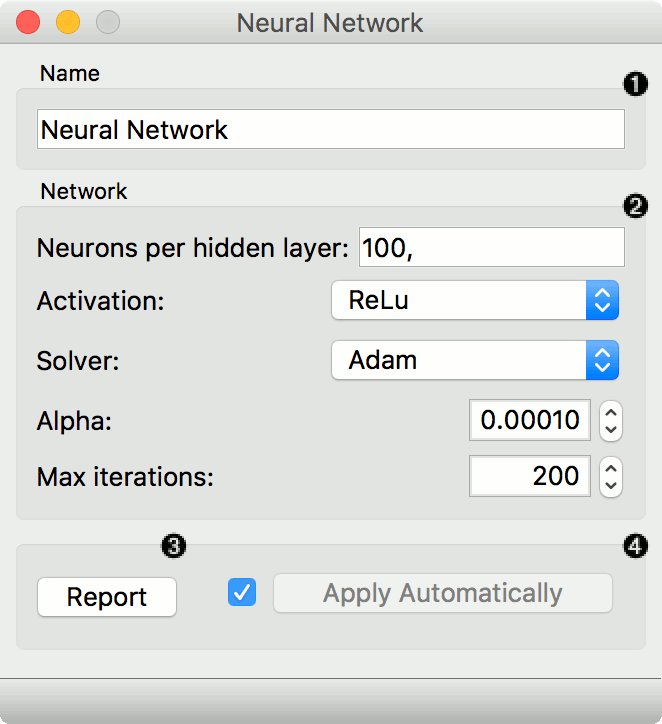
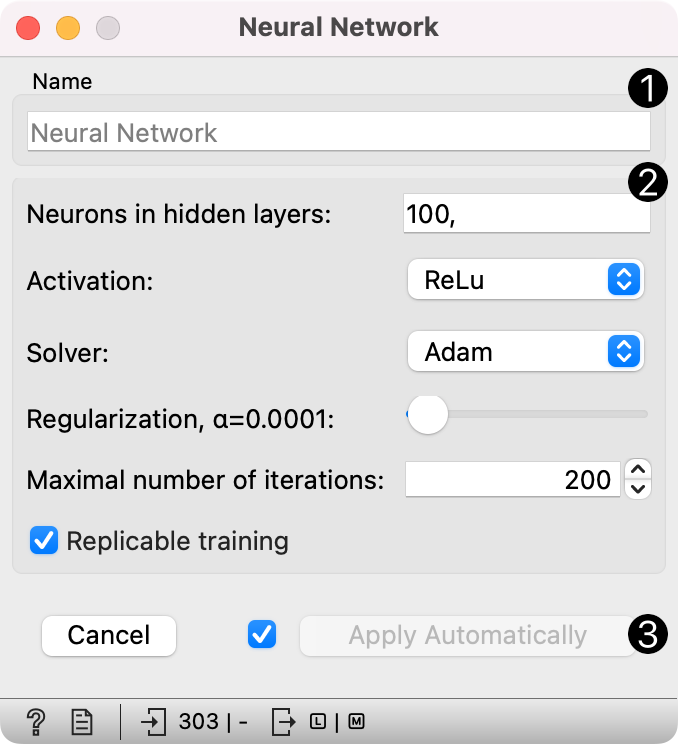
[DOC] Neural Network

diff --git a/source/widgets/model/neuralnetwork.md b/source/widgets/model/neuralnetwork.md
@@ -19,22 +19,23 @@ The **Neural Network** widget uses sklearn's [Multi-layer Perceptron algorithm](
 
 1. A name under which it will appear in other widgets. The default name is "Neural Network".
 2. Set model parameters:
-   - Neurons per hidden layer: defined as the ith element represents the number of neurons in the ith hidden layer. E.g. a neural network with 3 layers can be defined as 2, 3, 2.
-   - Activation function for the hidden layer:
+   - *Neurons in hidden layers*: the setting represents the number of neurons in the i-th hidden layer. E.g. a neural network with 3 layers can be defined as `2,3,2`.
+   - *Activation* function for the hidden layer:
       - Identity: no-op activation, useful to implement linear bottleneck
       - Logistic: the logistic sigmoid function
       - tanh: the hyperbolic tan function
       - ReLu: the rectified linear unit function
-   - Solver for weight optimization:
+   - *Solver* for weight optimization:
       - L-BFGS-B: an optimizer in the family of quasi-Newton methods
       - SGD: stochastic gradient descent
       - Adam: stochastic gradient-based optimizer
-   - Alpha: L2 penalty (regularization term) parameter
-   - Max iterations: maximum number of iterations
+   - *Regularization*: L2 penalty (regularization term) parameter
+   - *Maximal number of iterations*: highest number of iterations
+   - *Replicable training*: if ticked, training results can be reproduced.
 
    Other parameters are set to [sklearn's defaults](http://scikit-learn.org/stable/modules/generated/sklearn.neural_network.MLPClassifier.html).
-3. Produce a report.
-4. When the box is ticked (*Apply Automatically*), the widget will communicate changes automatically. Alternatively, click *Apply*.
+3. Cancel the 
+   When *Apply Automatically* is ticked, the widget will communicate changes automatically. Alternatively, click *Apply*.
 
 Preprocessing
 -------------
@@ -49,13 +50,9 @@ Neural Network uses default preprocessing when no other preprocessors are given.
 
 To remove default preprocessing, connect an empty [Preprocess](../data/preprocess.md) widget to the learner.
 
-Examples
---------
+Example
+-------
 
-The first example is a classification task on *iris* dataset. We compare the results of **Neural Network** with the [Logistic Regression](../model/logisticregression.md).
+The example is a classification task on the *iris* dataset from the [File](../data/file.md) widget. We compare the results of **Neural Network** with the [Logistic Regression](../model/logisticregression.md) in the [Test and Score](../evaluate/testandscore.md) widget.
 
-![](images/NN-Example-Test.png)
-
-The second example is a prediction task, still using the *iris* data. This workflow shows how to use the *Learner* output. We input the **Neural Network** prediction model into [Predictions](../evaluate/predictions.md) and observe the predicted values.
-
-![](images/NN-Example-Predict.png)
+![](images/NeuralNetwork-Example.png)
